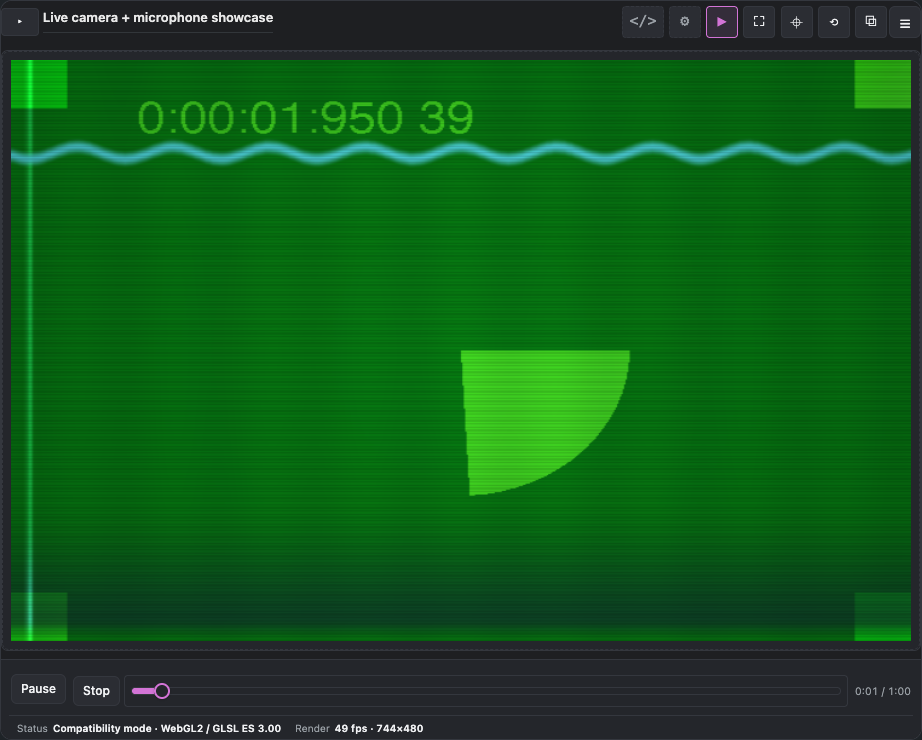
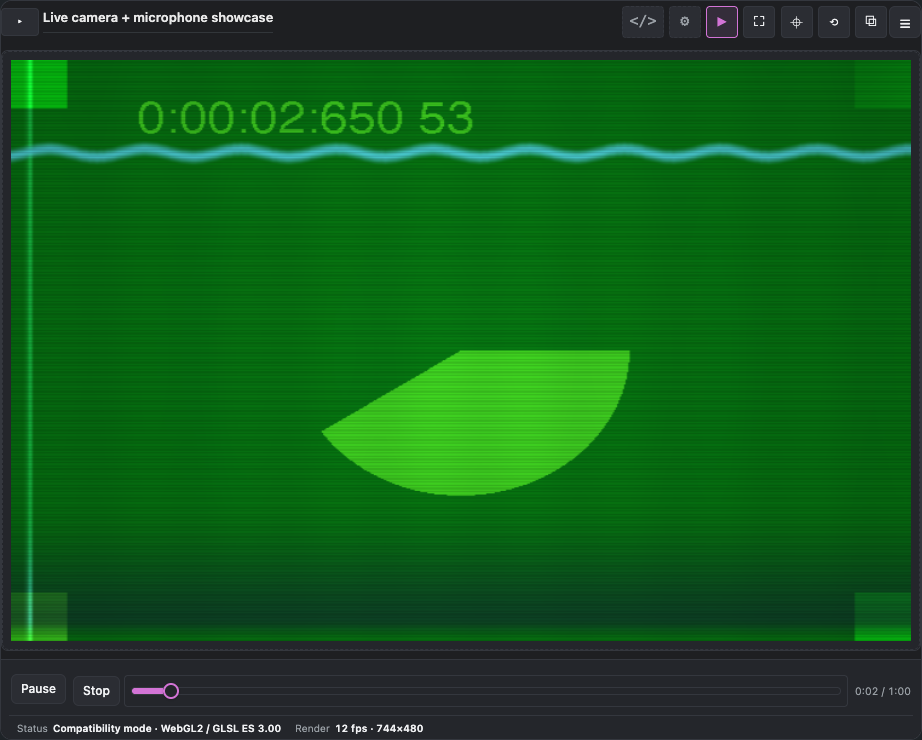
chore(showcase): refresh live media capture on PUI 1.18.26

diff --git a/README.md b/README.md
@@ -262,9 +262,9 @@ renderer, the source editor/import surface, the View controls and the ISF
 values.
 
 The workbench title bar labels the shader with an ISF **eyebrow**, its
-**title** and ISF **description**, and adds a PUI 1.18.24 **collapsible title
+**title** and ISF **description**, and adds a PUI 1.18.26 **collapsible title
 bar**, compact by default. Pane toggles and direct actions are icon-only (`</>`, `⚙`, `▶`,
-fullscreen, focus, reset, share, menu) with accessible names. PUI 1.18.24 gives
+fullscreen, focus, reset, share, menu) with accessible names. PUI 1.18.26 gives
 them hover/focus tooltips and a touch long-press label; the long press never
 activates the control. Active panes use the accent state. The description is one ellipsized line by default,
 so the identity row stays compact. Collapsing
@@ -297,7 +297,7 @@ Only one Parameters pane is open across viewers at a time, so panels never stack
 another open one.
 
 The renderer/adapter are vendored from the clean PUI **1.18.7** release
-(commit `f1a4c07`, upstream tag `v1.18.24`). The workbench titlebar contract
+(commit `cfed590`, upstream tag `v1.18.26`). The workbench titlebar contract
 (`description`, collapsible heading, controls retained) is upstream in
 `spec/WORKBENCH.md`; no host
 positioning or title-bar CSS is required. Before PUI mounts — and when a shader
@@ -497,7 +497,7 @@ The media action now reports its failure as a PUI toast:
   `point2D`/`color` components stay in range. Out-of-range typing is corrected
   on change and flagged with `aria-invalid` while editing.
 - The workbench titlebar shows the shader **title** and ISF **description**.
-  Its collapse control (PUI 1.18.24) hides the description and keeps a compact
+  Its collapse control (PUI 1.18.26) hides the description and keeps a compact
   title, the function buttons, pane toggles and Header menu. The Menu is the home for fullscreen,
   reset, randomize, export, share, help and source.
 - **Source** (left) and **Parameters** (right) are independently shown/hidden
@@ -522,14 +522,14 @@ The media action now reports its failure as a PUI toast:
   shader share the list without a reload.
 - PUI dialogs (save/confirm/palette) copy the active PUI surface/text/font
   tokens, so they remain opaque on host pages whose tokens live on the PUI
-  root. This is PUI 1.18.24.
+  root. This is PUI 1.18.26.
 - The titlebar defaults to the compact 41 px identity row; expanding it restores
   the ISF eyebrow and one-line description. The Source header keeps only the
   compile dot + `Ln x, Col y` and the secondary More menu; the Source toolbar is
   one row (fold, Fragment/Vertex, Apply). The fold no longer freezes the editor
   width or height: the code follows pane resizes and scrolls internally.
 - PUI's compact parameter density renders labels beside controls (one row per
-  scalar), with `Presets` above. PUI 1.18.24 stretches custom slots and clamps
+  scalar), with `Presets` above. PUI 1.18.26 stretches custom slots and clamps
   menu popovers at the viewport edge.
 - Larger input sets are grouped into type disclosures (Media, Color, Geometry,
   Values, Constants) with a persisted open state; `GROUP`/`input.group` wins

diff --git a/SDD.md b/SDD.md
@@ -415,7 +415,7 @@ the eyebrow and one-line description. Pane toggles carry decorative host glyphs 
 tooltips; labels stay visually hidden at every width. Collapsing hides the
 eyebrow/description and
 keeps a compact one-line title; the Menu, Source, Parameters and Playback
-buttons remain. This is PUI 1.18.24's `layout.titlebar` contract; the
+buttons remain. This is PUI 1.18.26's `layout.titlebar` contract; the
 host only supplies the title/description and the page's workbench document.
 The buttons are the show/hide controls for the Source and Parameters sections.
 
@@ -454,7 +454,7 @@ Density decisions:
 - The right pane's tab bar is its heading; the stage's "Preview" label is
   redundant too. Both pane titles are visually hidden but kept for accessible
   names.
-- PUI compact density puts labels beside controls; PUI 1.18.24 stretches custom
+- PUI compact density puts labels beside controls; PUI 1.18.26 stretches custom
   slots to their container and flips menu popups at the viewport edge.
 - The Parameters tab is led by the host-owned **Presets** block implemented
   with PUI's `presets`/`storage` contract. Presets are named snapshots of
@@ -463,7 +463,7 @@ Density decisions:
   and applies the stored values; delete is confirmed. The host owns values and storage;
   PUI owns the list, forms and confirmation. The preset list stays local to the
   viewer but is copied to other mounted viewers of the same shader.
-- PUI dialogs are body-hosted; PUI 1.18.24 copies the active surface/text/font
+- PUI dialogs are body-hosted; PUI 1.18.26 copies the active surface/text/font
   tokens into them, and falls back to the nearest opaque ancestor surface when
   the host intentionally makes the embedded PUI root transparent. Action
   forms, confirmations and the command palette therefore stay opaque outside
@@ -507,7 +507,7 @@ Density decisions:
 - Active pane toggles use the PUI accent border and the selected Parameters/
   View/Log tab uses an accent underline; the titlebar collapse keeps a compact
   title and removes the description only.
-- PUI 1.18.24 owns a delegated tooltip manager for flagged icon-only chrome:
+- PUI 1.18.26 owns a delegated tooltip manager for flagged icon-only chrome:
   titlebar collapse/pane/action/header-menu triggers, PUI menu triggers, the
   host HUD and the fold control. Hover waits 320 ms, focus is immediate, and a
   450 ms touch long-press shows the label without activating the button. The

diff --git a/AGENTS.md b/AGENTS.md
@@ -62,7 +62,7 @@ Start with the root [`../AGENTS.md`](../AGENTS.md), then:
   geometry must first assert the pane is open with non-zero width; CI can enter
   the narrow one-pane mode.
 - **Tooltips are PUI-owned.** Flag icon-only controls with
-  `data-pui-tooltip`; PUI 1.18.24 provides hover/focus/long-press labels, touch
+  `data-pui-tooltip`; PUI 1.18.26 provides hover/focus/long-press labels, touch
   click suppression, theme-token copying and document/fullscreen hosting. Never
   add a second tooltip manager per viewer. A long press must not activate the
   control, and a following mouse/pen press must not stay suppressed.

diff --git a/docs/UI_ERGONOMICS.md b/docs/UI_ERGONOMICS.md
@@ -1,6 +1,6 @@
 # UI ergonomics audit — ISF workbench
 
-**Scope:** docsify-isf viewer workbench · **Updated:** 2026-11-03 · **PUI:** 1.18.25 · **docsify-isf:** 1.45.31
+**Scope:** docsify-isf viewer workbench · **Updated:** 2026-11-03 · **PUI:** 1.18.26 · **docsify-isf:** 1.45.31
 **Captures:** [`ui-audit/`](ui-audit/) · **Reproduce:** `node tools/ui-audit.mjs`
 
 This audit covers the embedded workbench, not the surrounding Docsify page. It
